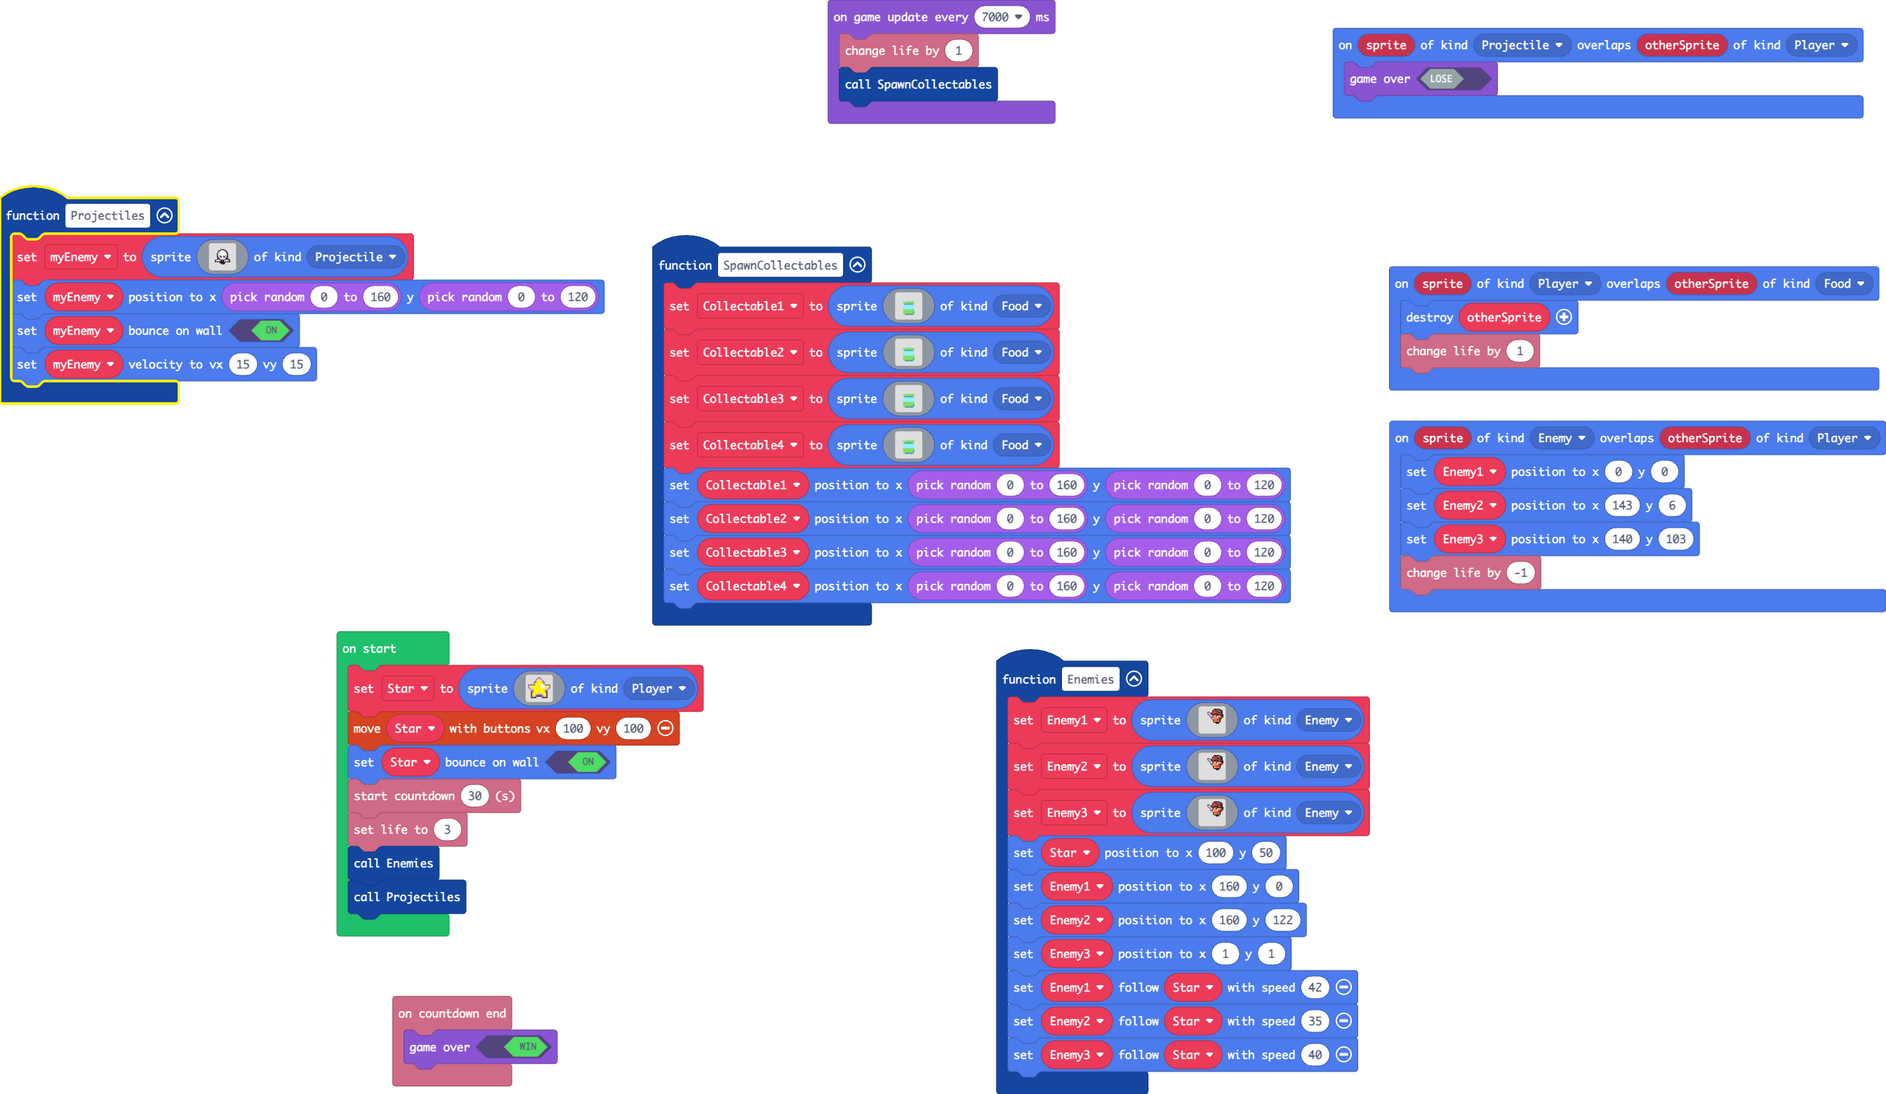
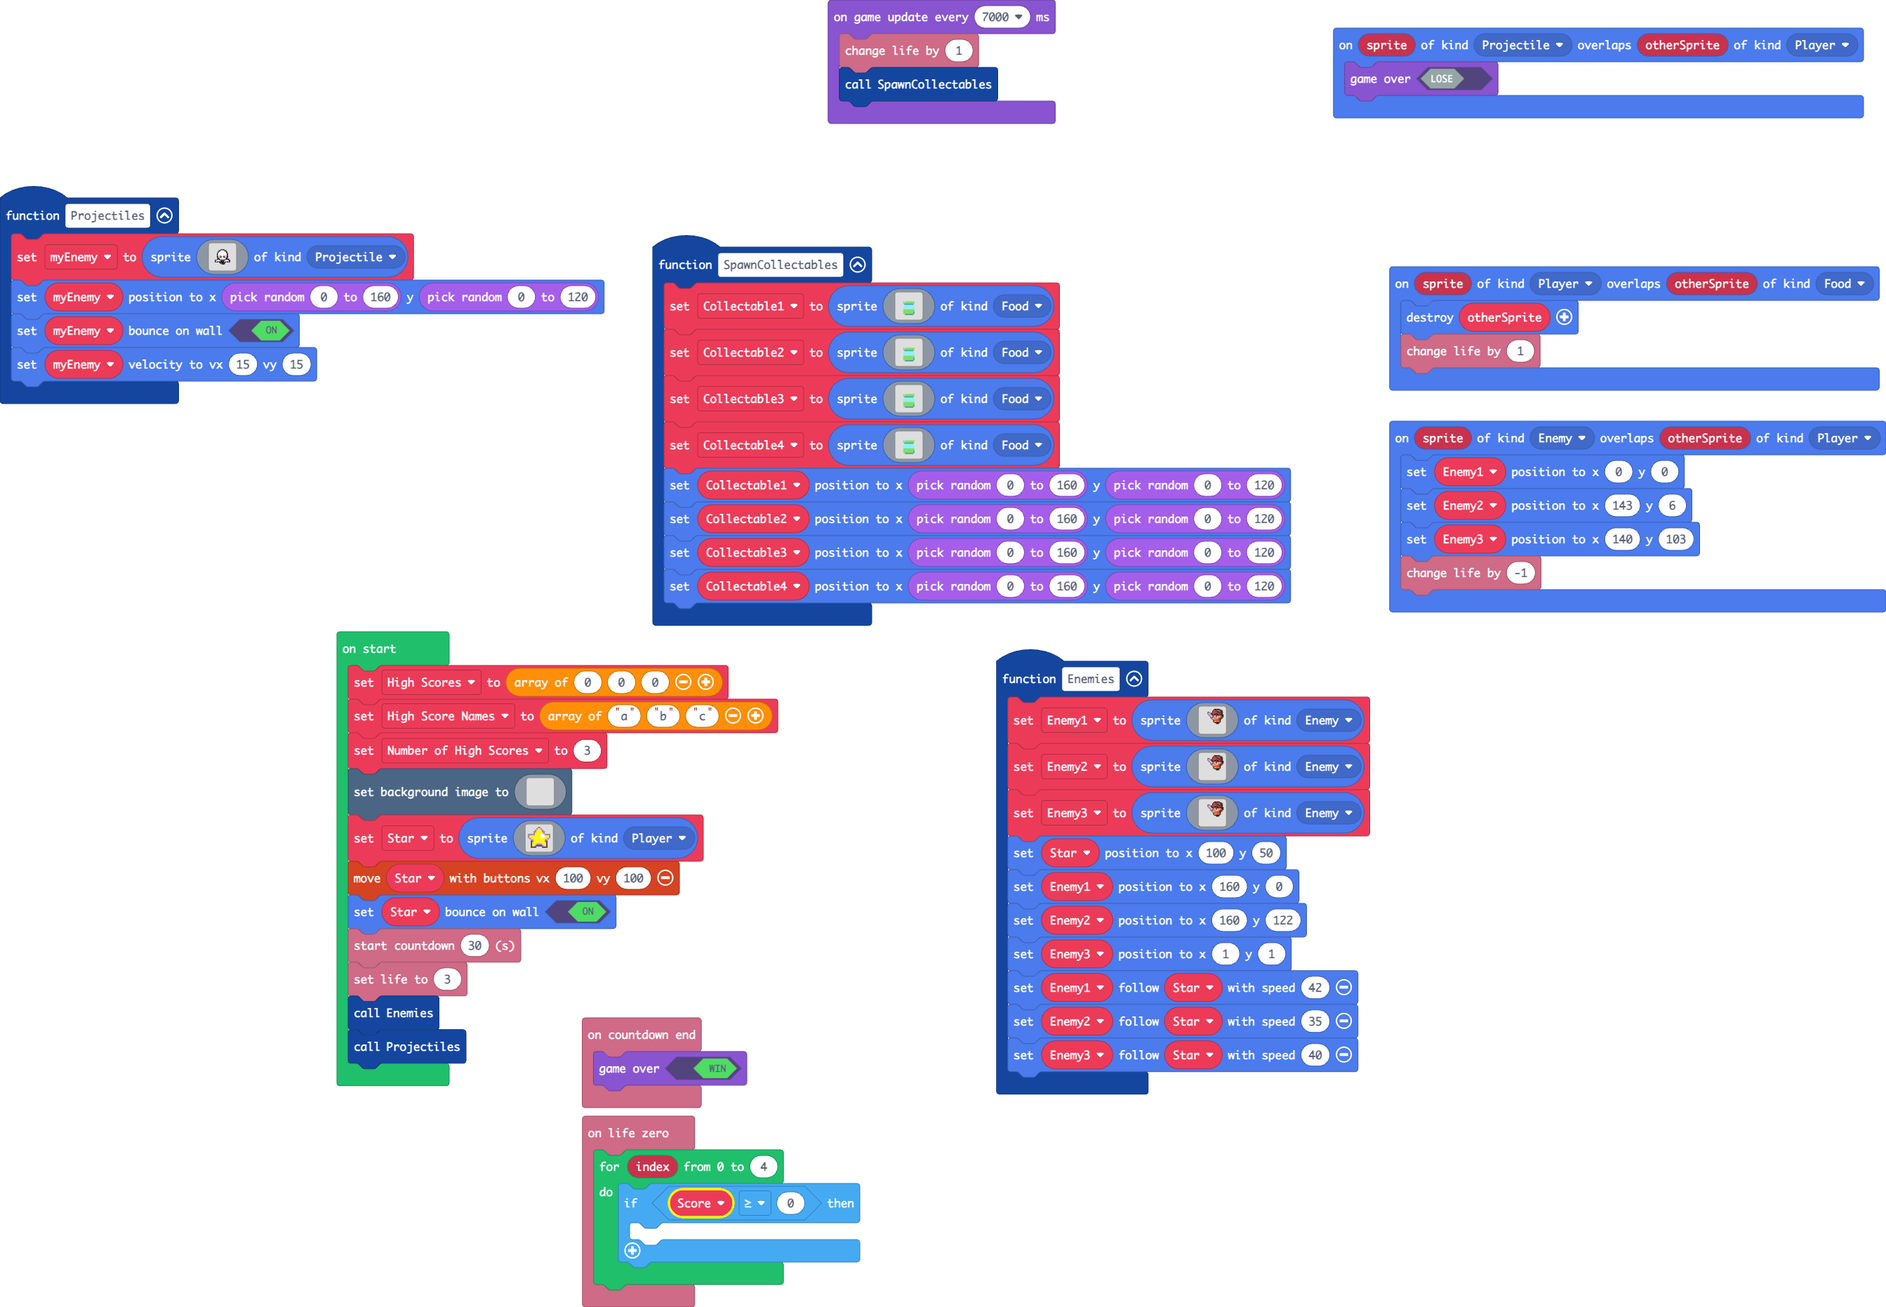
Update main.blocks, main.ts

diff --git a/main.ts b/main.ts
@@ -222,6 +222,14 @@ sprites.onOverlap(SpriteKind.Enemy, SpriteKind.Player, function (sprite, otherSp
     Enemy3.setPosition(140, 103)
     info.changeLifeBy(-1)
 })
+info.onLifeZero(function () {
+    for (let index = 0; index <= 4; index++) {
+        let Score = 0
+        if (Score >= 0) {
+        	
+        }
+    }
+})
 sprites.onOverlap(SpriteKind.Player, SpriteKind.Food, function (sprite, otherSprite) {
     sprites.destroy(otherSprite)
     info.changeLifeBy(1)
@@ -235,6 +243,131 @@ let Enemy3: Sprite = null
 let Enemy2: Sprite = null
 let Enemy1: Sprite = null
 let Star: Sprite = null
+let High_Scores = [0, 0, 0]
+let High_Score_Names = ["a", "b", "c"]
+let Number_of_High_Scores = 3
+scene.setBackgroundImage(img`
+    ................................................................................................................................................................
+    ................................................................................................................................................................
+    ................................................................................................................................................................
+    ................................................................................................................................................................
+    ................................................................................................................................................................
+    ................................................................................................................................................................
+    ................................................................................................................................................................
+    ................................................................................................................................................................
+    ................................................................................................................................................................
+    ................................................................................................................................................................
+    ................................................................................................................................................................
+    ................................................................................................................................................................
+    ................................................................................................................................................................
+    ................................................................................................................................................................
+    ................................................................................................................................................................
+    ................................................................................................................................................................
+    ................................................................................................................................................................
+    ................................................................................................................................................................
+    ................................................................................................................................................................
+    ................................................................................................................................................................
+    ................................................................................................................................................................
+    ................................................................................................................................................................
+    ................................................................................................................................................................
+    ................................................................................................................................................................
+    ................................................................................................................................................................
+    ................................................................................................................................................................
+    ................................................................................................................................................................
+    ................................................................................................................................................................
+    ................................................................................................................................................................
+    ................................................................................................................................................................
+    ................................................................................................................................................................
+    ................................................................................................................................................................
+    ................................................................................................................................................................
+    ................................................................................................................................................................
+    ................................................................................................................................................................
+    ................................................................................................................................................................
+    ................................................................................................................................................................
+    ................................................................................................................................................................
+    ................................................................................................................................................................
+    ................................................................................................................................................................
+    ................................................................................................................................................................
+    ................................................................................................................................................................
+    ................................................................................................................................................................
+    ................................................................................................................................................................
+    ................................................................................................................................................................
+    ................................................................................................................................................................
+    ................................................................................................................................................................
+    ................................................................................................................................................................
+    ................................................................................................................................................................
+    ................................................................................................................................................................
+    ................................................................................................................................................................
+    ................................................................................................................................................................
+    ................................................................................................................................................................
+    ................................................................................................................................................................
+    ................................................................................................................................................................
+    ................................................................................................................................................................
+    ................................................................................................................................................................
+    ................................................................................................................................................................
+    ................................................................................................................................................................
+    ................................................................................................................................................................
+    ................................................................................................................................................................
+    ................................................................................................................................................................
+    ................................................................................................................................................................
+    ................................................................................................................................................................
+    ................................................................................................................................................................
+    ................................................................................................................................................................
+    ................................................................................................................................................................
+    ................................................................................................................................................................
+    ................................................................................................................................................................
+    ................................................................................................................................................................
+    ................................................................................................................................................................
+    ................................................................................................................................................................
+    ................................................................................................................................................................
+    ................................................................................................................................................................
+    ................................................................................................................................................................
+    ................................................................................................................................................................
+    ................................................................................................................................................................
+    ................................................................................................................................................................
+    ................................................................................................................................................................
+    ................................................................................................................................................................
+    ................................................................................................................................................................
+    ................................................................................................................................................................
+    ................................................................................................................................................................
+    ................................................................................................................................................................
+    ................................................................................................................................................................
+    ................................................................................................................................................................
+    ................................................................................................................................................................
+    ................................................................................................................................................................
+    ................................................................................................................................................................
+    ................................................................................................................................................................
+    ................................................................................................................................................................
+    ................................................................................................................................................................
+    ................................................................................................................................................................
+    ................................................................................................................................................................
+    ................................................................................................................................................................
+    ................................................................................................................................................................
+    ................................................................................................................................................................
+    ................................................................................................................................................................
+    ................................................................................................................................................................
+    ................................................................................................................................................................
+    ................................................................................................................................................................
+    ................................................................................................................................................................
+    ................................................................................................................................................................
+    ................................................................................................................................................................
+    ................................................................................................................................................................
+    ................................................................................................................................................................
+    ................................................................................................................................................................
+    ................................................................................................................................................................
+    ................................................................................................................................................................
+    ................................................................................................................................................................
+    ................................................................................................................................................................
+    ................................................................................................................................................................
+    ................................................................................................................................................................
+    ................................................................................................................................................................
+    ................................................................................................................................................................
+    ................................................................................................................................................................
+    ................................................................................................................................................................
+    ................................................................................................................................................................
+    ................................................................................................................................................................
+    ................................................................................................................................................................
+    `)
 Star = sprites.create(img`
     . . . . . . . b b . . . . . . . 
     . . . . . . b d d b . . . . . . 
